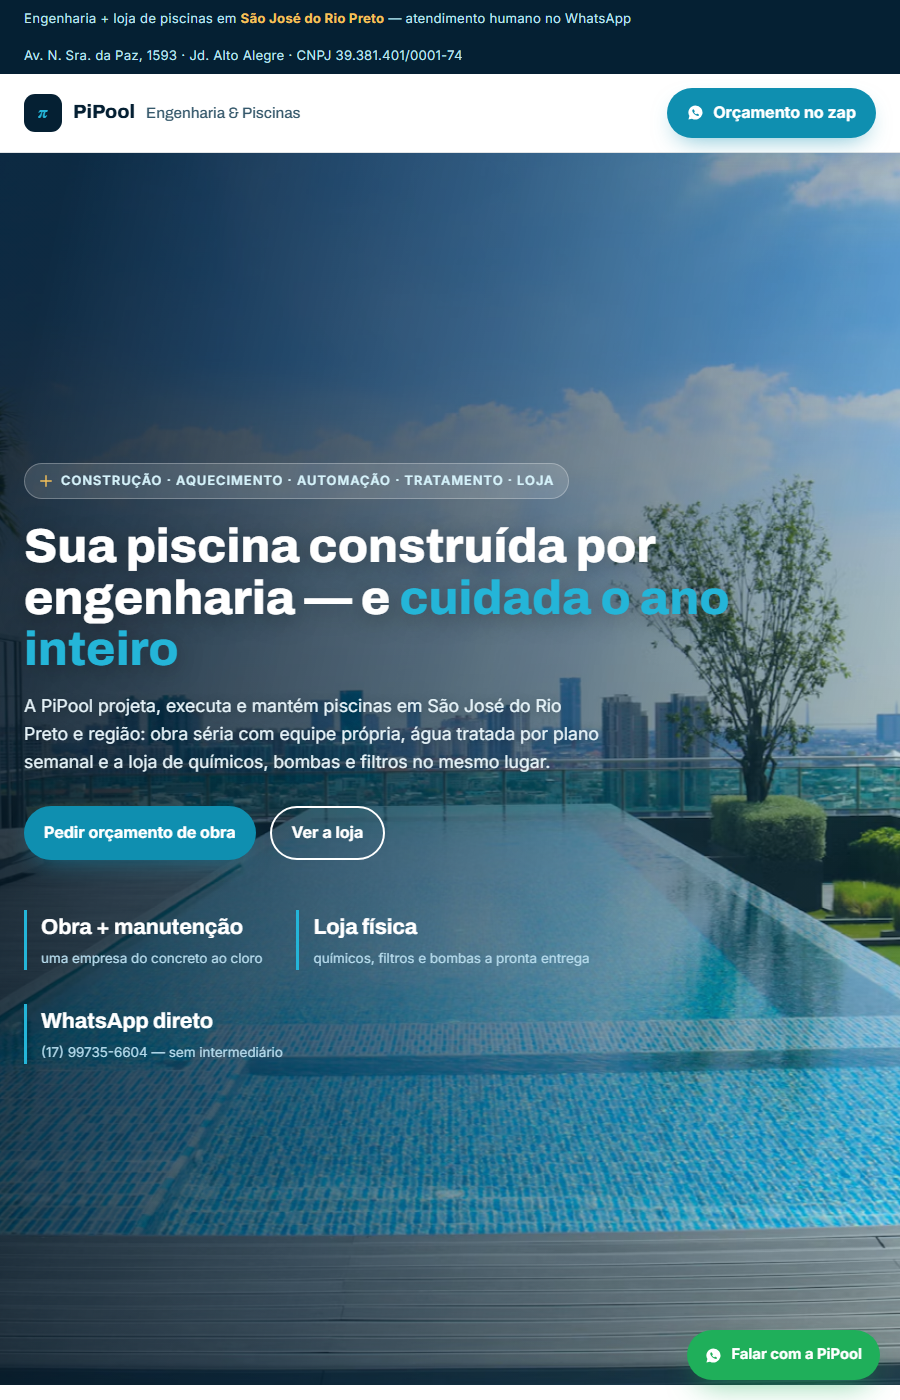
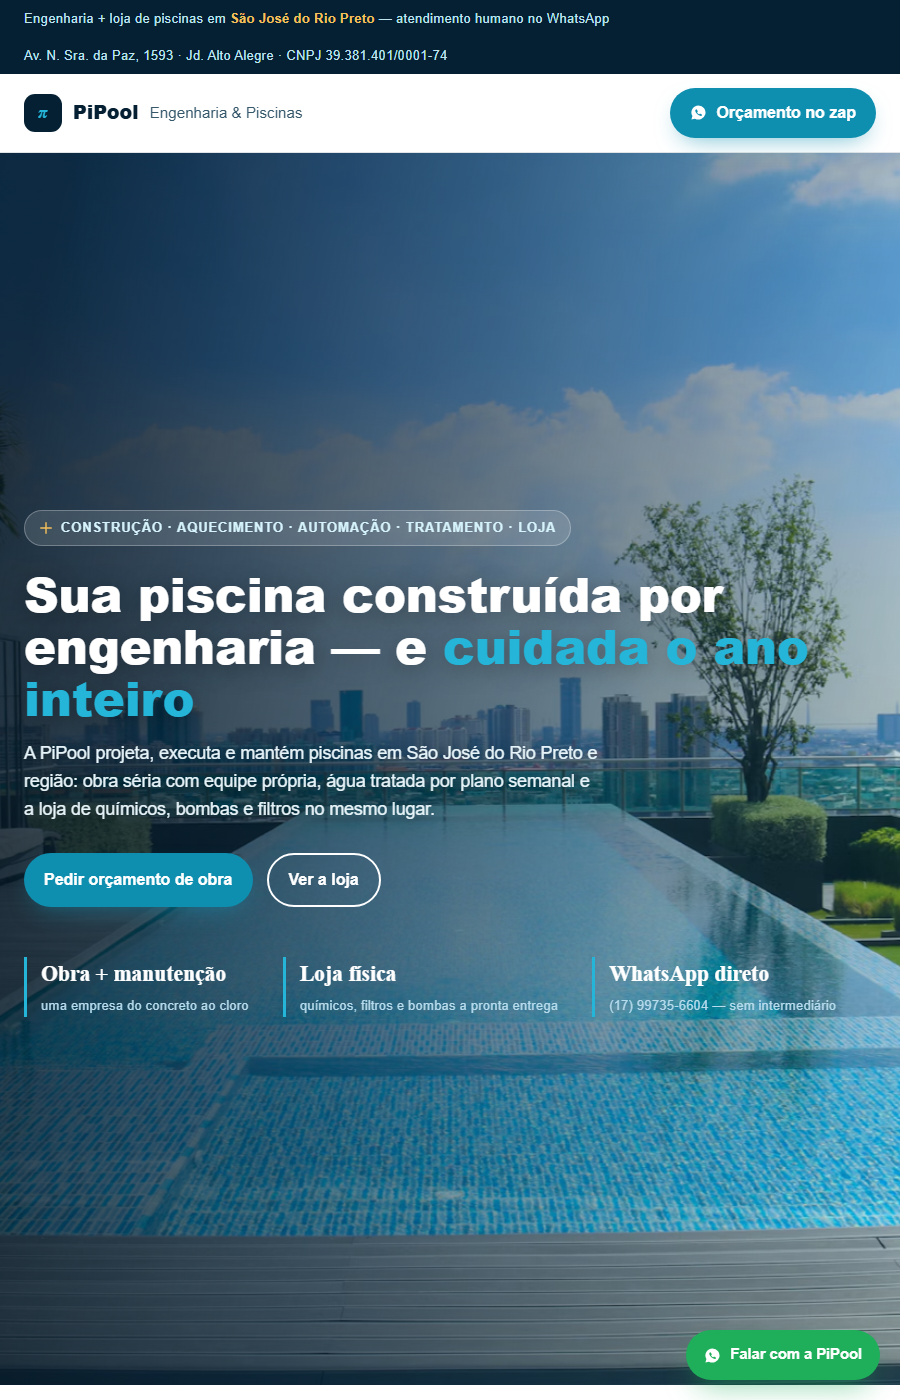
protos: publica pipool (gate R5: 9/10 )

diff --git a/p/pipool/index.html b/p/pipool/index.html
@@ -66,6 +66,14 @@ header.nav{position:sticky;top:0;z-index:50;background:rgba(255,255,255,.9);back
 .btn.ghost{background:transparent;color:var(--deep);border:2px solid var(--deep);box-shadow:none}
 .btn.ghost:hover{background:var(--deep);color:#fff}
 @media(max-width:1000px){.navlinks{display:none}}
+@media(max-width:700px){
+  .nav .wrap{padding-top:11px;padding-bottom:11px;gap:10px}
+  .brand{gap:8px;font-size:1.05rem}
+  .brand .sub{display:none}
+  .btn{padding:10px 15px;font-size:.82rem;flex-shrink:0;white-space:nowrap}
+  .wrap{padding:0 16px}
+  .hero .bgimg img{object-position:center 82%}
+}
 
 /* hero */
 .hero{position:relative;min-height:88vh;display:flex;align-items:center;color:#fff;overflow:hidden;isolation:isolate}
@@ -180,7 +188,7 @@ footer .demo b{color:#ffd684}
 </div></div>
 
 <header class="nav"><div class="wrap">
-  <div class="brand"><span class="pi">&pi;</span> PiPool <span style="font-weight:500;color:#35586b;font-size:.95rem">Engenharia &amp; Piscinas</span></div>
+  <div class="brand"><span class="pi">&pi;</span> PiPool <span class="sub" style="font-weight:500;color:#35586b;font-size:.95rem">Engenharia &amp; Piscinas</span></div>
   <nav class="navlinks">
     <a href="#construcao">Construção</a>
     <a href="#manutencao">Manutenção</a>
